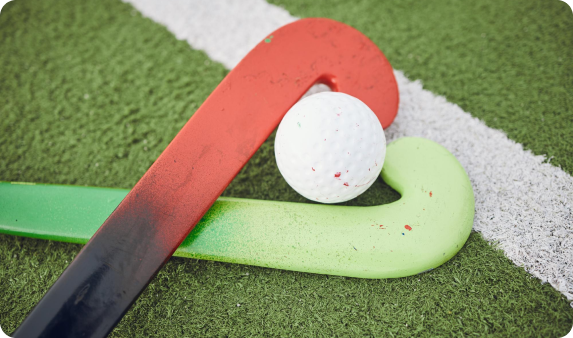
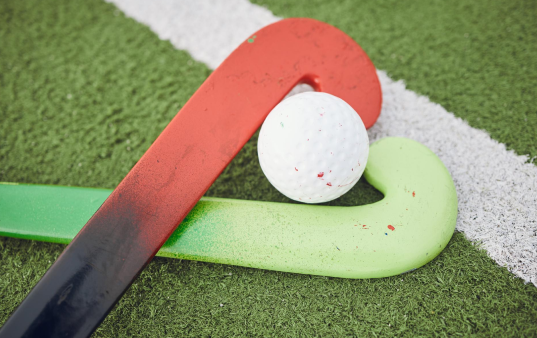
Little adjustments on the slider

diff --git a/index.html b/index.html
@@ -149,9 +149,9 @@
       <!-- Hero Section -->
       <div class="max-w-1170 mx-auto px-2.5">
         <div class="hero-carousel relative">
-          <div class="carousel w-full">
-            <div id="slide1" class="carousel-item relative w-full">
-              <img src="assets/Images/1.png" class="w-full h-52 lg:h-[550px]" />
+          <div class="carousel w-full rounded-xl lg:rounded-2xl">
+            <div id="slide1" class="carousel-item relative w-full rounded-xl lg:rounded-2xl">
+              <img src="assets/Images/1.png" class="w-full h-52 lg:h-[550px] rounded-xl lg:rounded-2xl" />
               <div
                 class="absolute flex gap-4 transform -translate-x-2/4 lg:translate-x-0 left-2/4 lg:left-8 bottom-8"
               >
@@ -167,8 +167,8 @@
                 >
               </div>
             </div>
-            <div id="slide2" class="carousel-item relative w-full">
-              <img src="assets/Images/2.png" class="w-full h-52 lg:h-[550px]" />
+            <div id="slide2" class="carousel-item relative w-full rounded-xl lg:rounded-2xl">
+              <img src="assets/Images/2.png" class="w-full h-52 lg:h-[550px] rounded-xl lg:rounded-2xl" />
               <div class="absolute flex gap-4 transform left-8 bottom-8">
                 <a
                   href="#slide1"
@@ -182,8 +182,8 @@
                 >
               </div>
             </div>
-            <div id="slide3" class="carousel-item relative w-full">
-              <img src="assets/Images/3.png" class="w-full h-52 lg:h-[550px]" />
+            <div id="slide3" class="carousel-item relative w-full rounded-xl lg:rounded-2xl">
+              <img src="assets/Images/3.png" class="w-full h-52 lg:h-[550px] rounded-xl lg:rounded-2xl" />
               <div class="absolute flex gap-4 transform left-8 bottom-8">
                 <a
                   href="#slide2"
@@ -199,7 +199,7 @@
             </div>
           </div>
           <div
-            class="max-w-xl mx-auto bg-dark3 rounded-2xl p-8 lg:absolute bottom-8 right-8"
+            class="max-w-[566px] mx-auto bg-dark3 rounded-xl lg:rounded-2xl p-4 lg:p-8 lg:absolute bottom-8 right-8"
           >
             <h2
               class="text-lg lg:text-2xl font-extrabold text-white mb-2 lg:mb-4"
